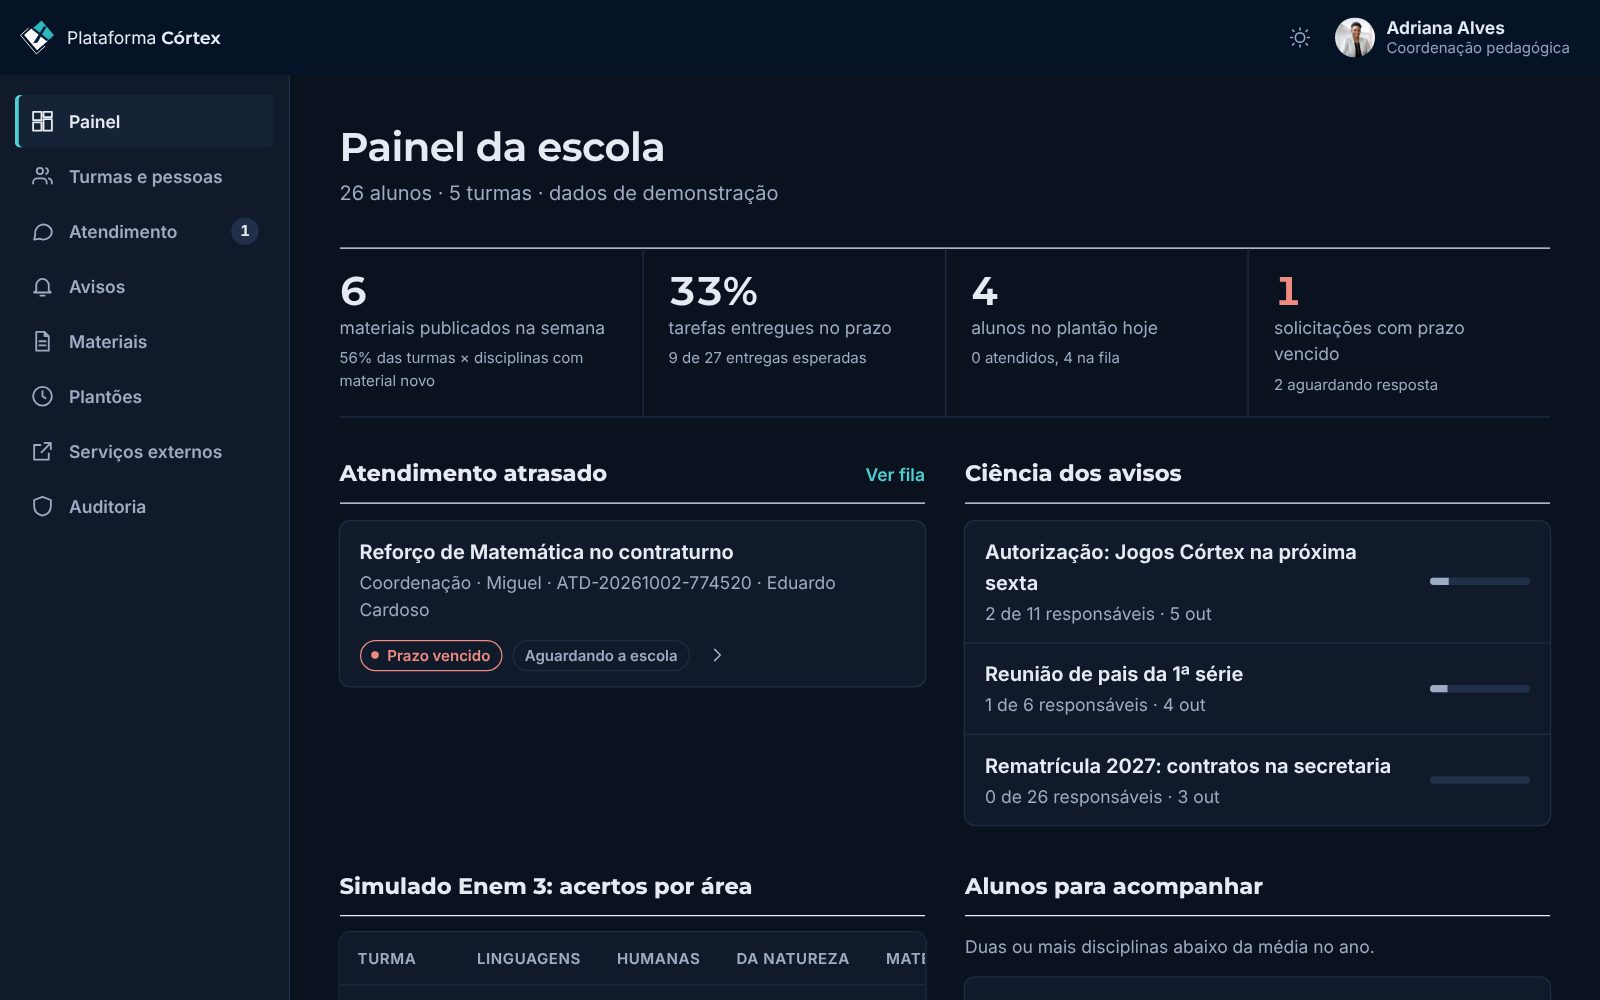
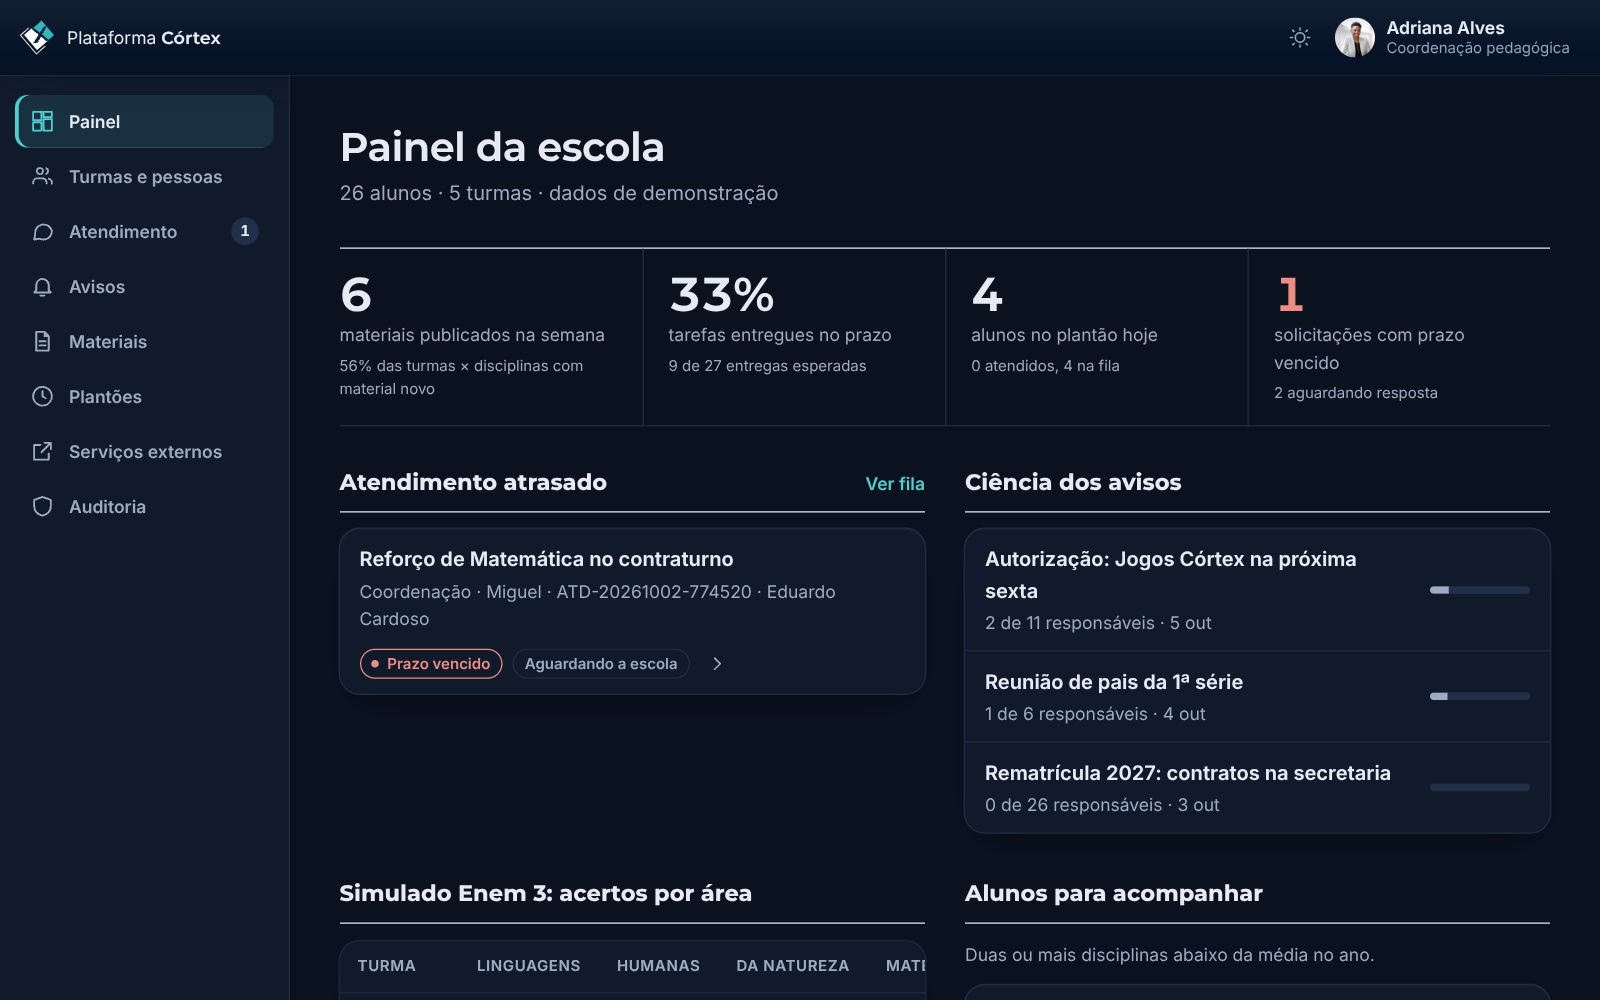
Plataforma: acabamento com superfícies em camadas e movimento discreto
Cantos maiores, sombra em camadas nos cartões, brilho leve na barra, item atual da lateral em verde-água, botões que respondem ao toque, telas que entram em cascata, barras de nota que crescem e cartões clicáveis que sobem no hover. Com movimento reduzido, nada se move. Telas da página inicial recapturadas.

Claude-Session: https://claude.ai/code/session_0194HRBYwYGLuStc9boWYJcM

diff --git a/src/plataforma/plataforma.css b/src/plataforma/plataforma.css
@@ -2505,3 +2505,203 @@ a.linha > .icone:last-child {
     grid-row: 2;
   }
 }
+
+/* ---------- acabamento ----------
+   Superfícies com cantos maiores e sombra em camadas, barra com brilho leve, movimento curto nas
+   entradas de tela, nas barras de nota e no hover dos cartões clicáveis. Nada se move com
+   prefers-reduced-motion. */
+
+.plataforma {
+  --r-1: 10px;
+  --r-2: 16px;
+  --curva: cubic-bezier(0.2, 0.7, 0.2, 1);
+  --sombra-cartao: 0 1px 2px rgb(10 29 59 / 0.04), 0 10px 28px -16px rgb(10 29 59 / 0.18);
+  --sombra-alta: 0 2px 6px rgb(10 29 59 / 0.06), 0 22px 44px -20px rgb(10 29 59 / 0.3);
+  --brilho-acao: 0 1px 0 rgb(255 255 255 / 0.18) inset, 0 8px 18px -10px rgb(0 116 121 / 0.7);
+}
+
+@media (prefers-color-scheme: dark) {
+  html:not([data-tema="claro"]) .plataforma {
+    --sombra-cartao: 0 1px 0 rgb(255 255 255 / 0.03) inset, 0 12px 30px -16px rgb(0 0 0 / 0.7);
+    --sombra-alta: 0 1px 0 rgb(255 255 255 / 0.05) inset, 0 24px 48px -18px rgb(0 0 0 / 0.85);
+    --brilho-acao: 0 1px 0 rgb(255 255 255 / 0.25) inset, 0 8px 22px -10px rgb(79 207 208 / 0.45);
+  }
+}
+html[data-tema="escuro"] .plataforma {
+  --sombra-cartao: 0 1px 0 rgb(255 255 255 / 0.03) inset, 0 12px 30px -16px rgb(0 0 0 / 0.7);
+  --sombra-alta: 0 1px 0 rgb(255 255 255 / 0.05) inset, 0 24px 48px -18px rgb(0 0 0 / 0.85);
+  --brilho-acao: 0 1px 0 rgb(255 255 255 / 0.25) inset, 0 8px 22px -10px rgb(79 207 208 / 0.45);
+}
+
+/* barra: o marinho com um reflexo de cima para baixo */
+.barra {
+  background-image: linear-gradient(180deg, rgb(255 255 255 / 0.05), transparent 70%);
+  box-shadow: 0 1px 0 rgb(255 255 255 / 0.06), 0 10px 30px -18px rgb(6 19 39 / 0.8);
+}
+.portais__item[aria-current="page"] {
+  box-shadow: 0 2px 10px -4px rgb(0 0 0 / 0.45);
+}
+
+/* navegação lateral */
+.lateral__item {
+  transition:
+    background-color 180ms var(--curva),
+    color 180ms var(--curva),
+    box-shadow 180ms var(--curva);
+}
+.lateral__item[aria-current="page"] {
+  background: var(--acao-suave);
+  box-shadow: inset 3px 0 0 var(--acao);
+}
+.lateral__item[aria-current="page"] .icone {
+  color: var(--acao);
+}
+
+/* superfícies */
+.linhas,
+.aviso,
+.servico,
+.plantao,
+.filho-cartao,
+.tabela-rolagem,
+.painel-fila,
+.comprovante,
+.entrada__pessoa {
+  box-shadow: 0 0 0 1px var(--linha), var(--sombra-cartao);
+}
+.cartao-op {
+  border-radius: 12px;
+  box-shadow: 0 0 0 1px var(--linha), var(--sombra-cartao);
+}
+.kanban__coluna {
+  border-top-width: 0;
+  box-shadow: inset 0 2px 0 var(--linha-forte);
+}
+.estado {
+  border-style: solid;
+  border-color: var(--linha);
+  background:
+    radial-gradient(28rem 10rem at 0 0, var(--acao-suave), transparent 70%),
+    var(--sup);
+}
+.janela {
+  box-shadow: 0 0 0 1px var(--linha), 0 40px 100px -20px var(--sombra-forte);
+}
+.janela::backdrop {
+  background: rgb(6 19 39 / 0.45);
+  backdrop-filter: blur(4px);
+}
+
+/* o que se clica responde ao cursor */
+.servico,
+.entrada__pessoa,
+.cartao-op,
+.aviso:has(a, button) {
+  transition:
+    transform 220ms var(--curva),
+    box-shadow 220ms var(--curva);
+}
+.servico:hover,
+.entrada__pessoa:hover,
+.cartao-op:hover {
+  transform: translateY(-2px);
+  box-shadow: 0 0 0 1px var(--linha-forte), var(--sombra-alta);
+}
+.tabela tbody tr {
+  transition: background-color 160ms var(--curva);
+}
+.tabela tbody tr:hover {
+  background: var(--sup-2);
+}
+
+/* botões */
+.btn {
+  transition:
+    background-color 160ms var(--curva),
+    border-color 160ms var(--curva),
+    color 160ms var(--curva),
+    box-shadow 200ms var(--curva),
+    transform 160ms var(--curva);
+}
+.btn--primario {
+  box-shadow: var(--brilho-acao);
+}
+.btn--primario:hover {
+  transform: translateY(-1px);
+}
+.btn:active:not(:disabled) {
+  transform: translateY(0) scale(0.98);
+}
+.abas__item {
+  transition:
+    background-color 160ms var(--curva),
+    color 160ms var(--curva),
+    box-shadow 160ms var(--curva);
+}
+
+/* números do painel com mais presença */
+.numero__valor {
+  font-size: clamp(1.75rem, 1.2rem + 1.6vw, 2.375rem);
+}
+
+@media (prefers-reduced-motion: no-preference) {
+  /* cada tela entra em cascata, de baixo para cima */
+  .pagina > * {
+    animation: plataforma-subir 520ms var(--curva) backwards;
+  }
+  .pagina > :nth-child(2) {
+    animation-delay: 60ms;
+  }
+  .pagina > :nth-child(3) {
+    animation-delay: 120ms;
+  }
+  .pagina > :nth-child(4) {
+    animation-delay: 180ms;
+  }
+  .pagina > :nth-child(n + 5) {
+    animation-delay: 240ms;
+  }
+  .numeros .numero {
+    animation: plataforma-subir 520ms var(--curva) backwards;
+  }
+  .numeros .numero:nth-child(2) {
+    animation-delay: 80ms;
+  }
+  .numeros .numero:nth-child(3) {
+    animation-delay: 160ms;
+  }
+  .numeros .numero:nth-child(n + 4) {
+    animation-delay: 240ms;
+  }
+  /* barras de nota, progresso e funil crescem da esquerda */
+  .progresso span,
+  .medidor span,
+  .barras__valor {
+    transform-origin: 0 50%;
+    animation: plataforma-crescer 900ms var(--curva) 200ms backwards;
+  }
+  .janela[open] {
+    animation: plataforma-janela 280ms var(--curva);
+  }
+  .kanban__cartoes > * {
+    animation: plataforma-subir 420ms var(--curva) backwards;
+  }
+}
+
+@keyframes plataforma-subir {
+  from {
+    opacity: 0;
+    transform: translateY(10px);
+  }
+}
+@keyframes plataforma-crescer {
+  from {
+    transform: scaleX(0);
+  }
+}
+@keyframes plataforma-janela {
+  from {
+    opacity: 0;
+    transform: translateY(10px) scale(0.98);
+  }
+}
